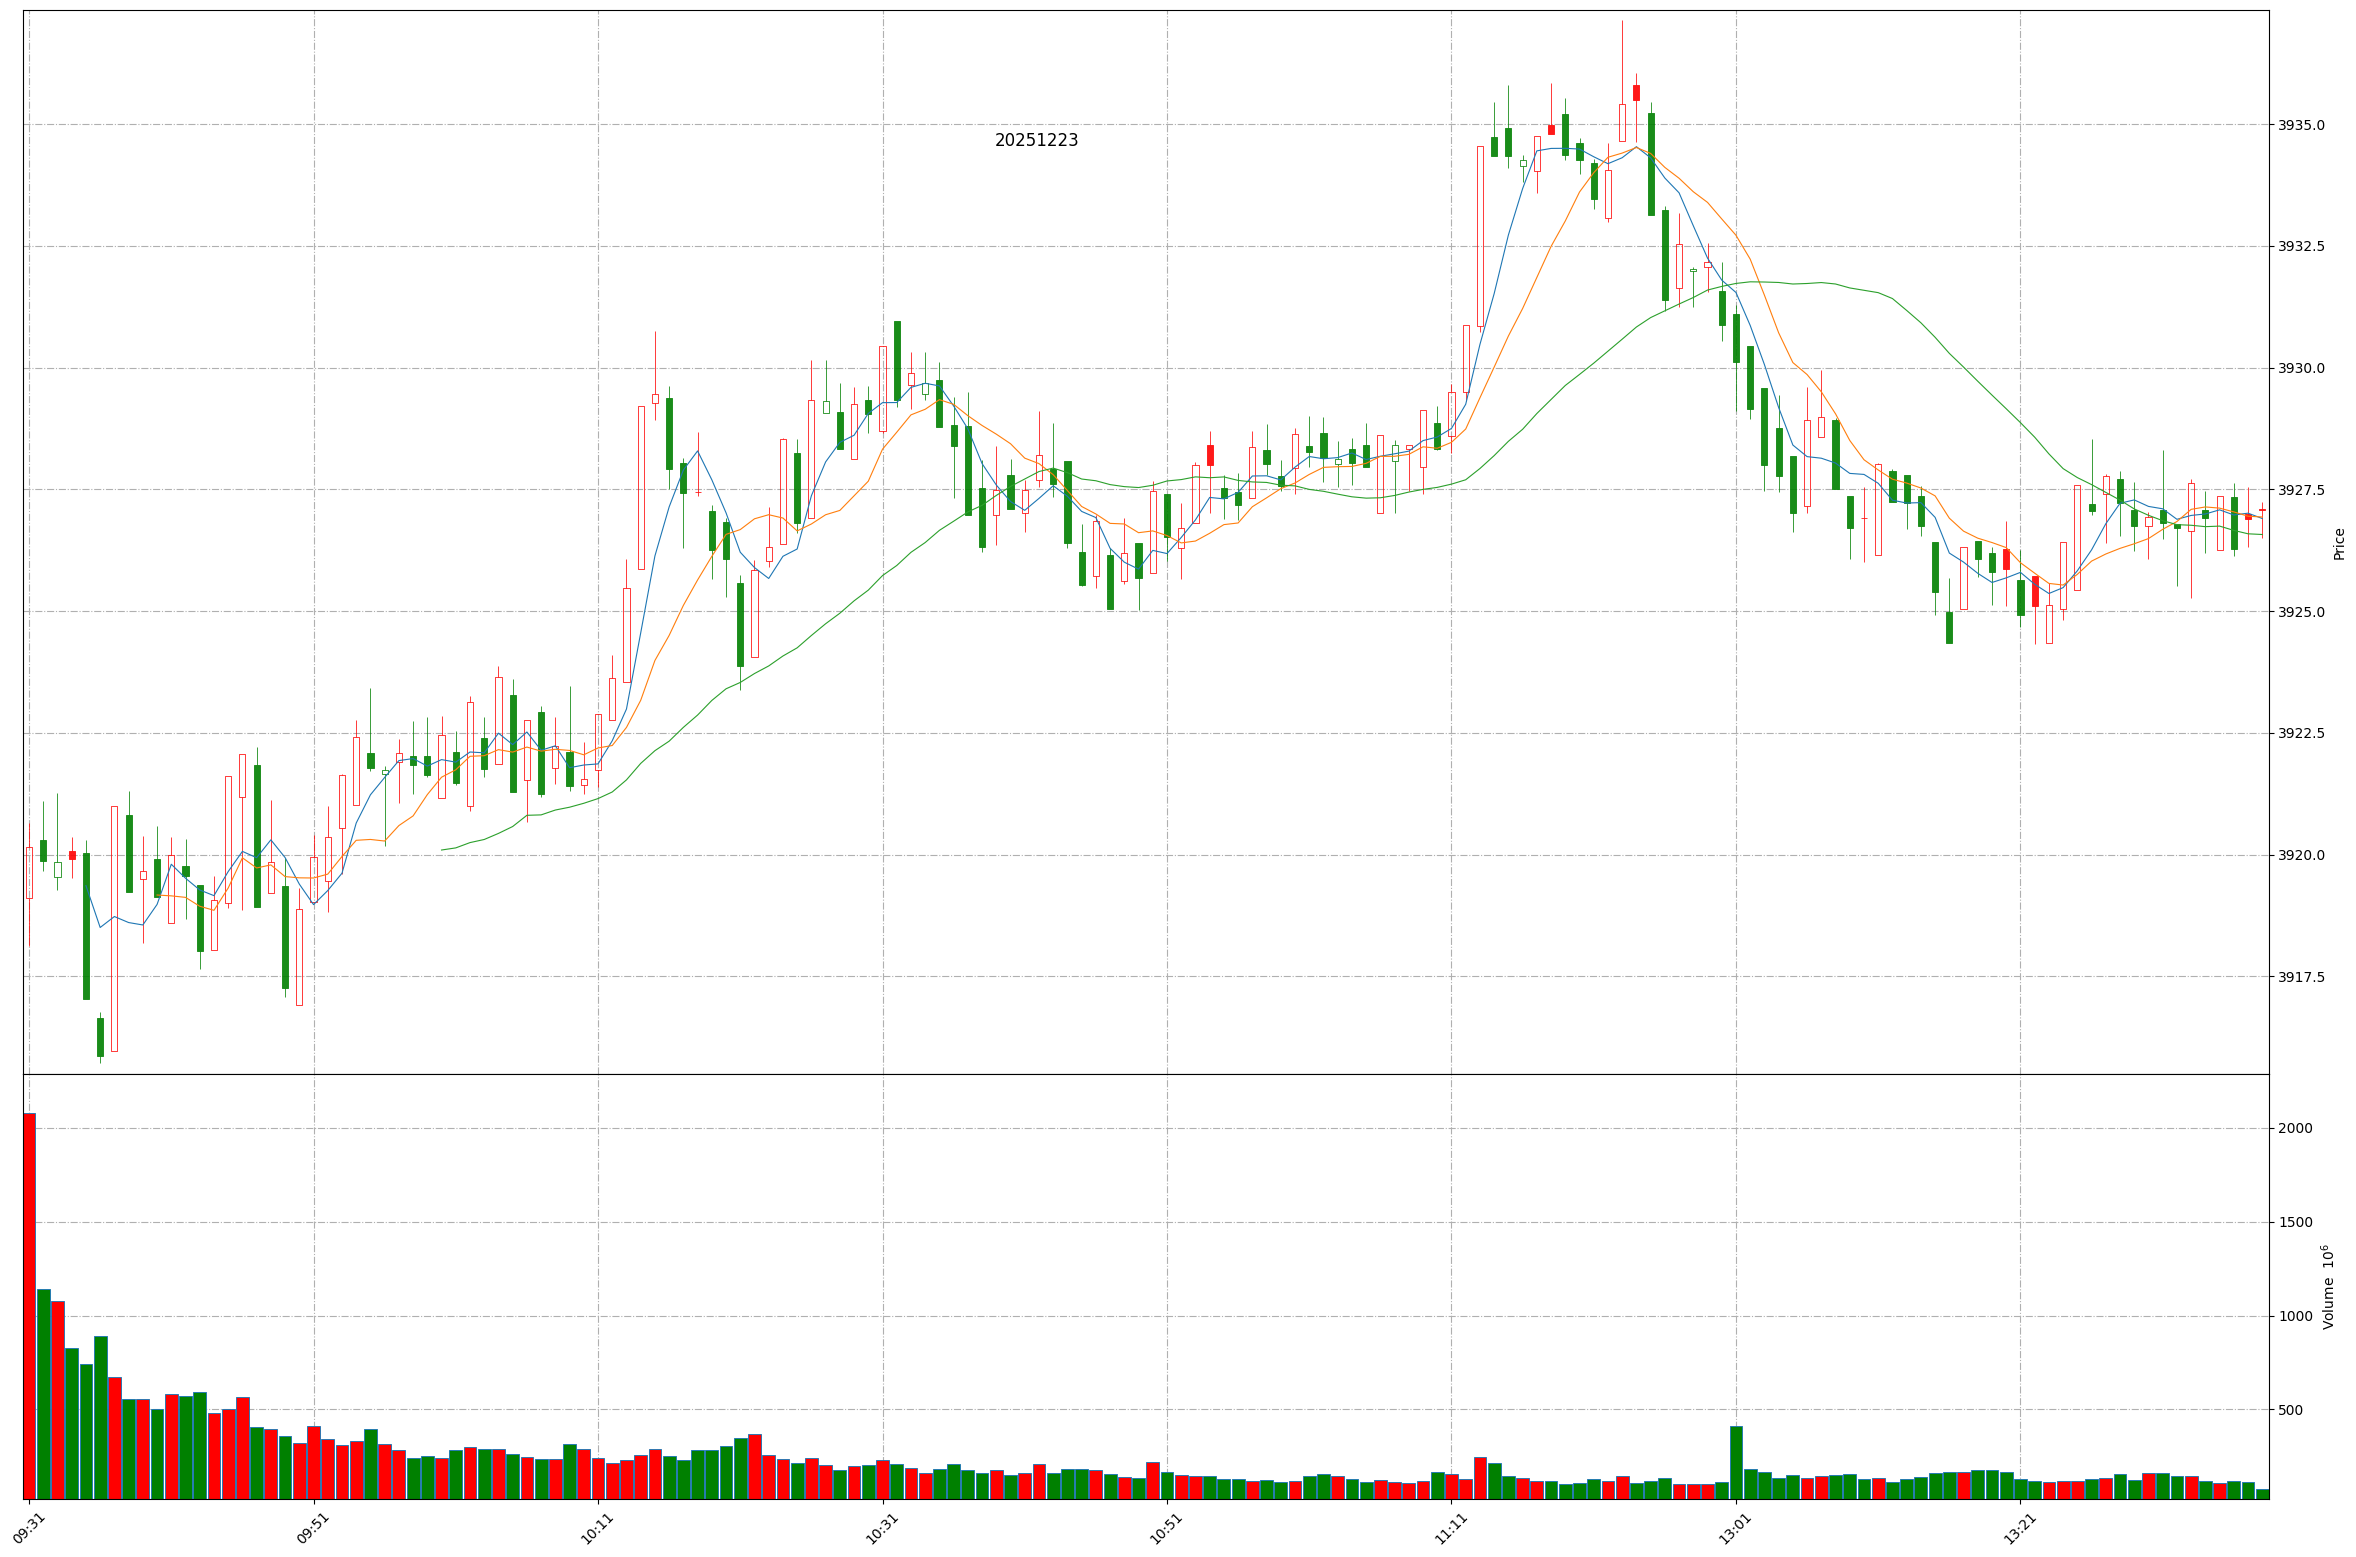
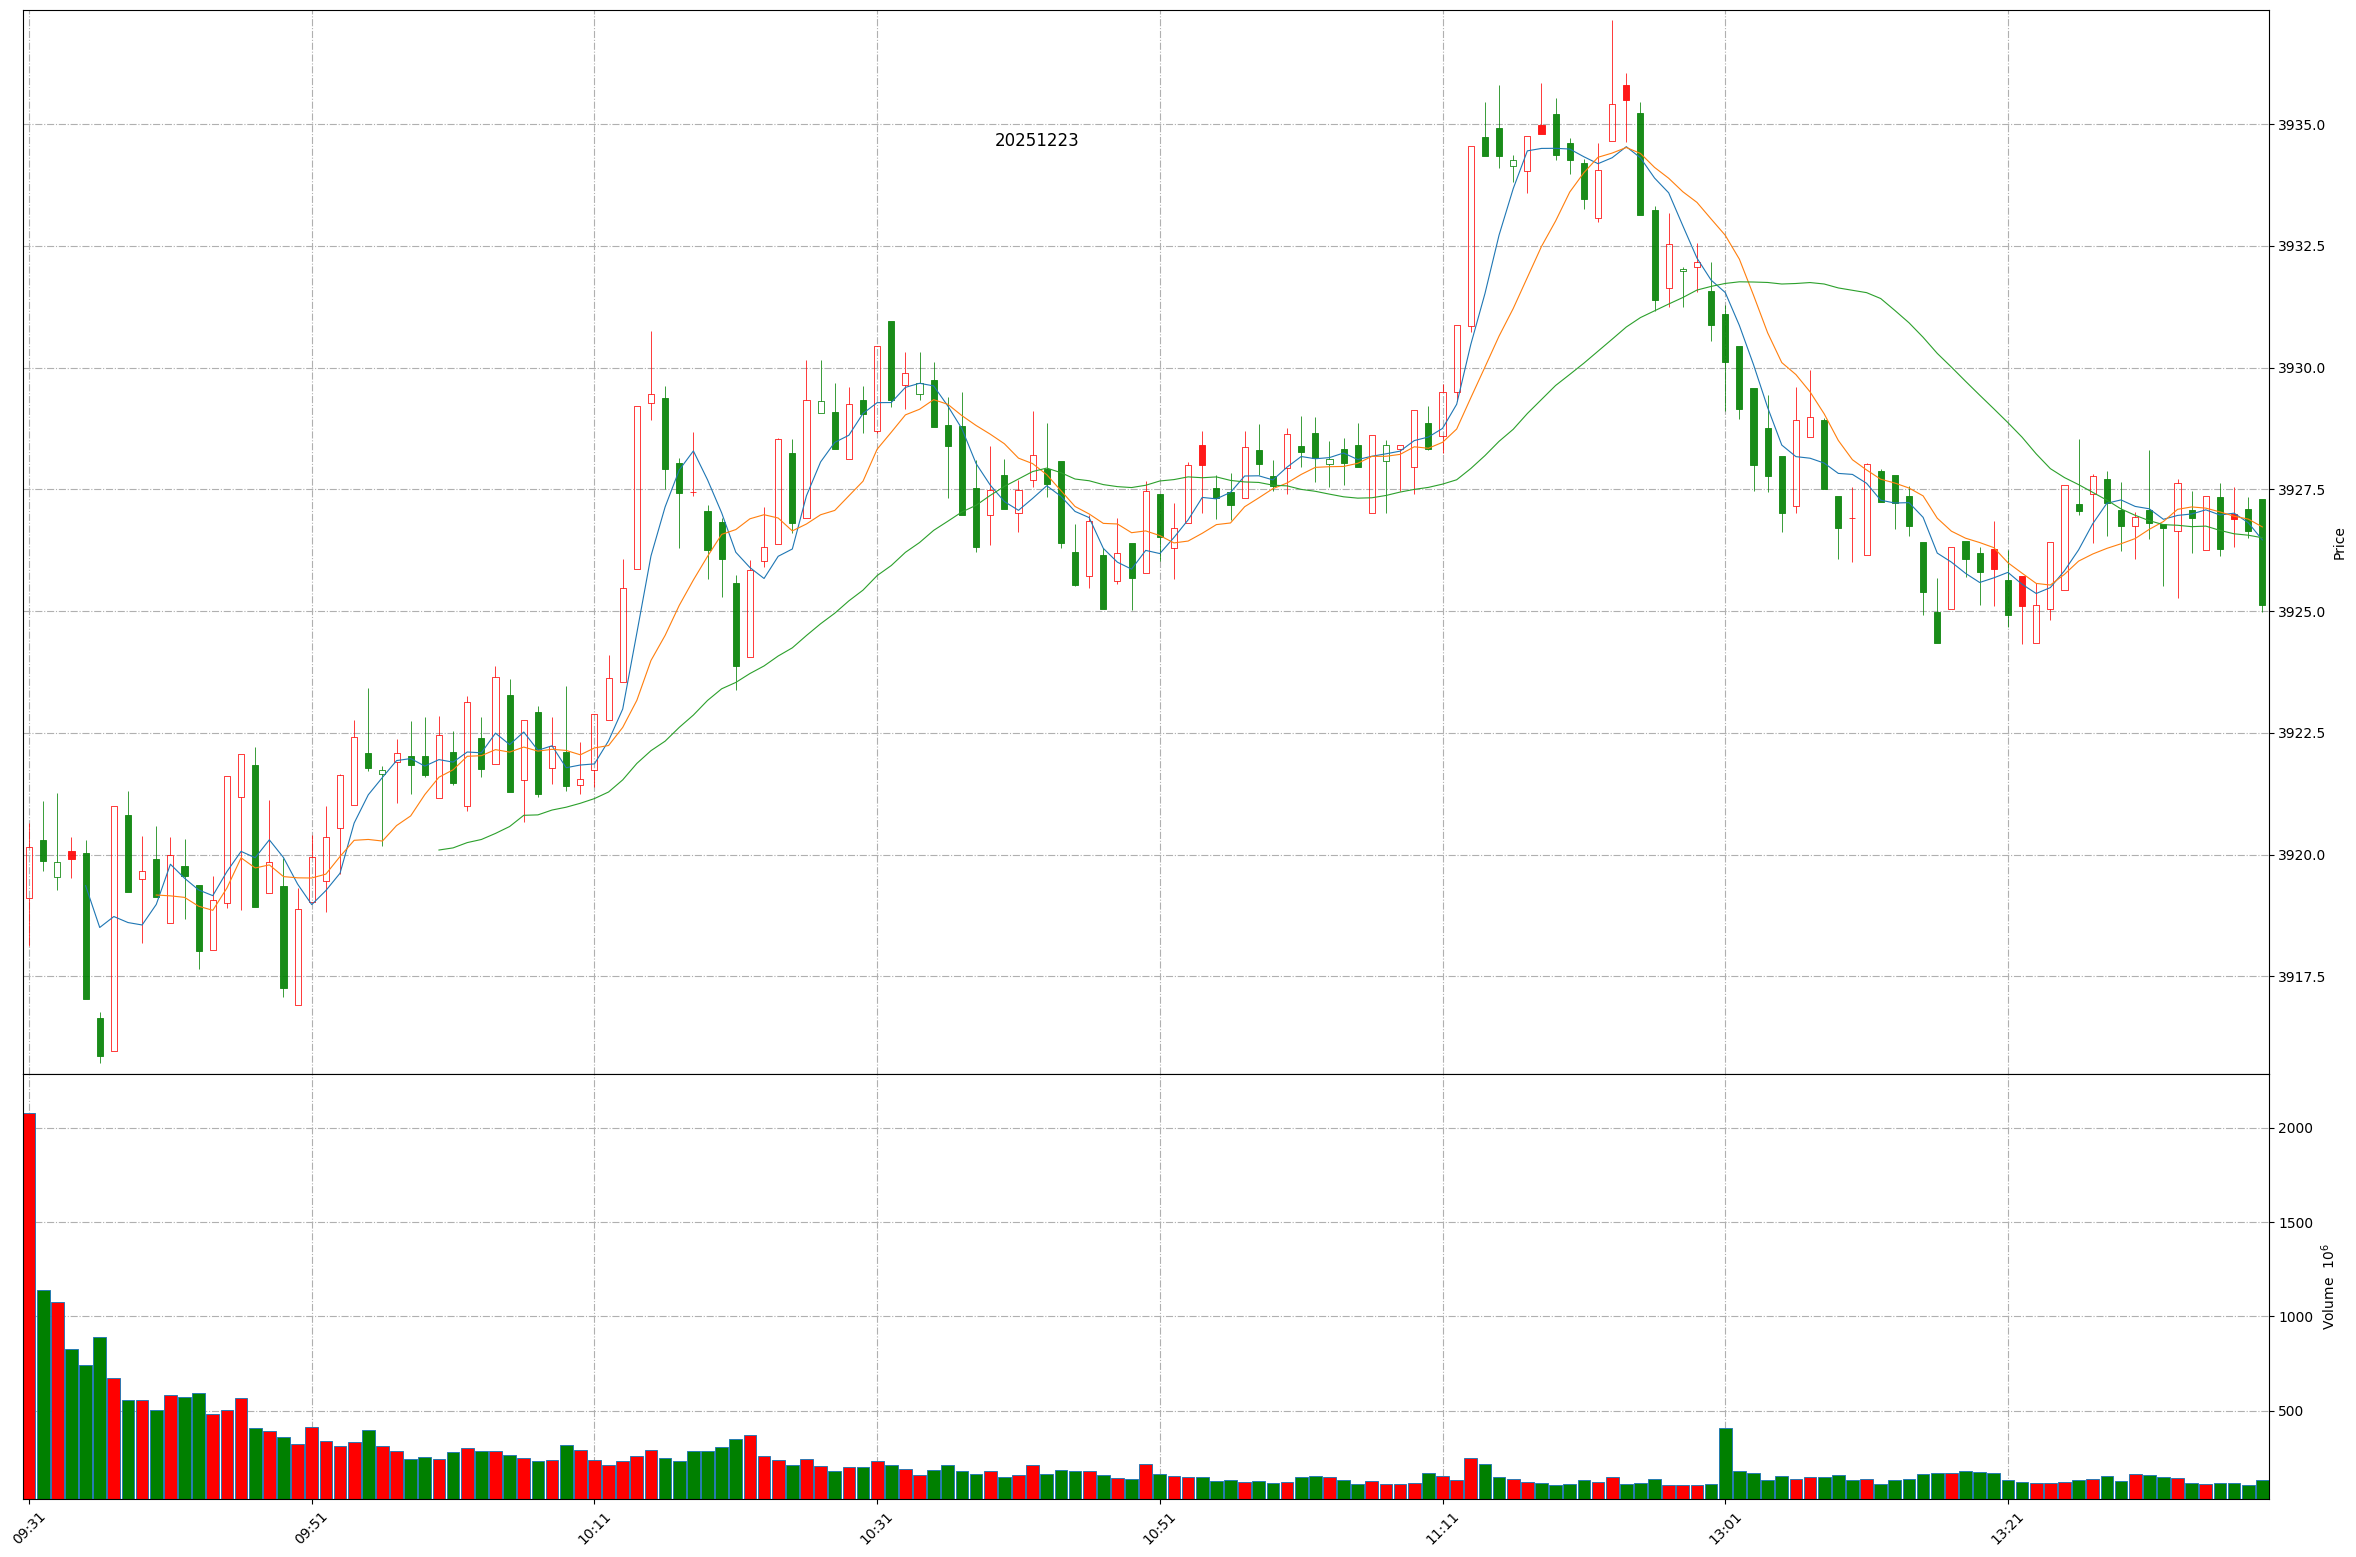
Github action update at 2025-12-23 13:39:21.

Changed region(s): [[0.062, 0.0617, 0.9605, 0.5857], [0.031, 0.894, 0.9605, 0.9865], [0.3718, 0.3391, 0.4028, 0.3699]]

diff --git a/README.md b/README.md
@@ -1,11 +1,11 @@
 
 # Daily-A-share-market-quotes 每日 A 股指数（5min 更新）- 20251223
 
-### 上证指数 20251223 13:38
+### 上证指数 20251223 13:39
 ![](./fig/2025/12/20251223-sh000001.png)
 
-### 深证成指 20251223 13:38
+### 深证成指 20251223 13:39
 ![](./fig/2025/12/20251223-sz399001.png)
 
-### 北证50 20251223 13:38
+### 北证50 20251223 13:39
 ![](./fig/2025/12/20251223-bj899050.png)
